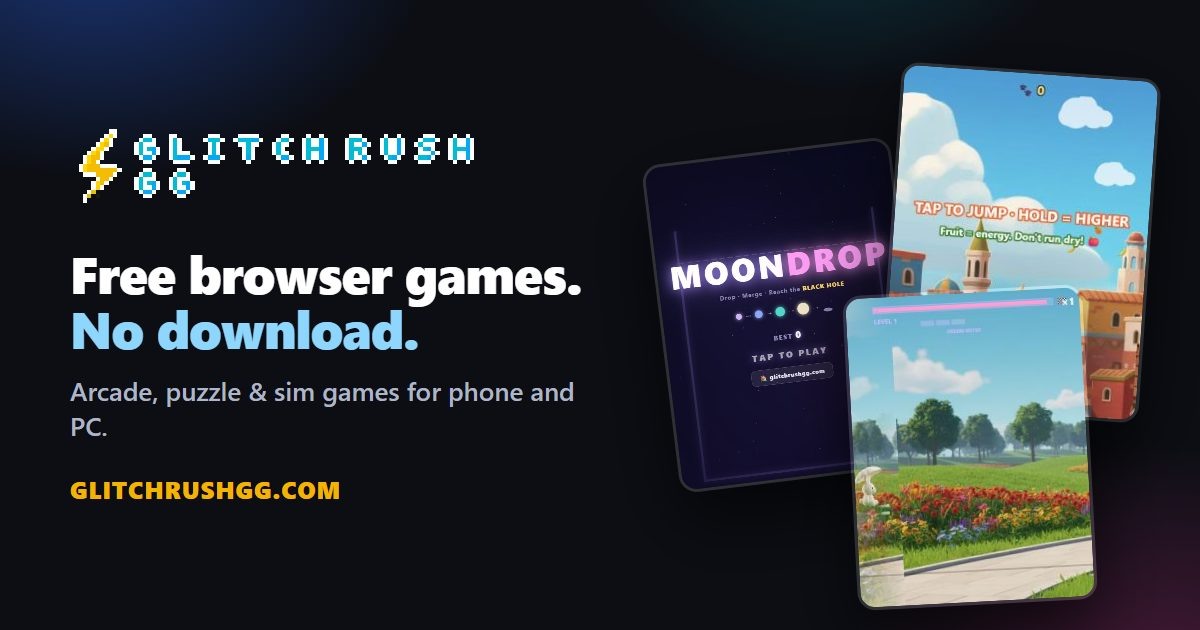
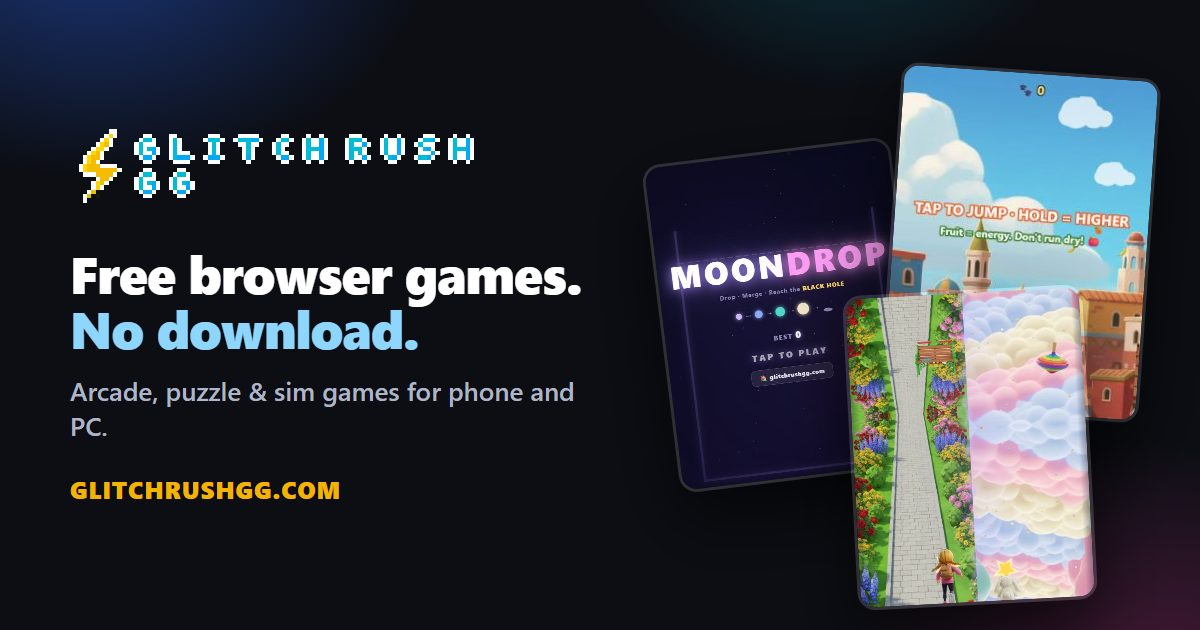
Landing: portada v2 de Dream Duo (gameplay portrait de los dos mundos) + og-cover regenerada + badge NEW rotado a los 2 últimos lanzamientos (regla de la fundadora)

Changed region(s): [[0.6783, 0.4524, 0.925, 0.9651]]

diff --git a/index.html b/index.html
@@ -307,7 +307,8 @@
           <span class="playdot" aria-hidden="true">▶</span>
         </a>
         <a class="game" href="./dream-duo/" style="background:linear-gradient(160deg,#2a1a4e,#14102b)" aria-label="Play Dream Duo">
-          <img class="art" src="assets/covers/dream-duo.jpg" alt="Dream Duo gameplay" loading="lazy" decoding="async" width="600" height="338" style="object-position:14% 50%" />
+          <img class="art" src="assets/covers/dream-duo.jpg" alt="Dream Duo gameplay" loading="lazy" decoding="async" width="390" height="844" />
+          <span class="badge badge-new">NEW</span>
           <div class="game-body">
             <span class="genre">Two worlds · One brain</span>
             <h3>Dream Duo</h3>
@@ -370,7 +371,6 @@
         </a>
         <a class="game light" href="./hotel-dino-blu/" style="background:linear-gradient(160deg,#1aa0bd,#0e5566)" aria-label="Play Hotel Dino Blu">
           <img class="art" src="assets/covers/hotel-dino-blu.jpg" alt="Hotel Dino Blu gameplay" loading="lazy" decoding="async" width="1000" height="625" />
-          <span class="badge badge-new">NEW</span>
           <div class="game-body">
             <span class="genre">3D simulator</span>
             <h3>Hotel Dino Blu</h3>
